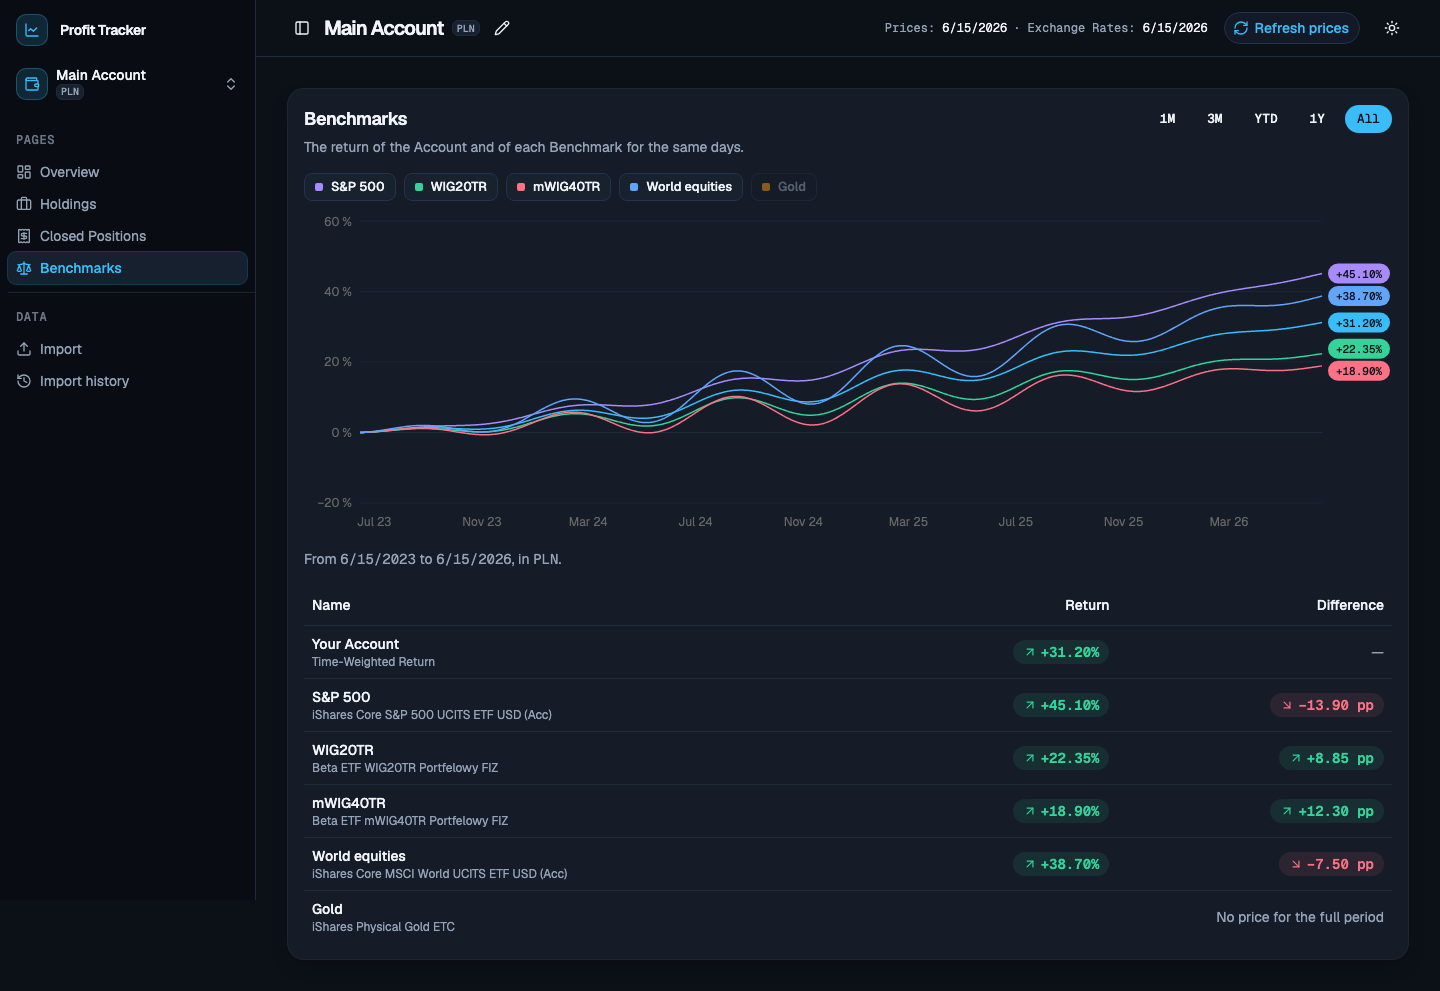
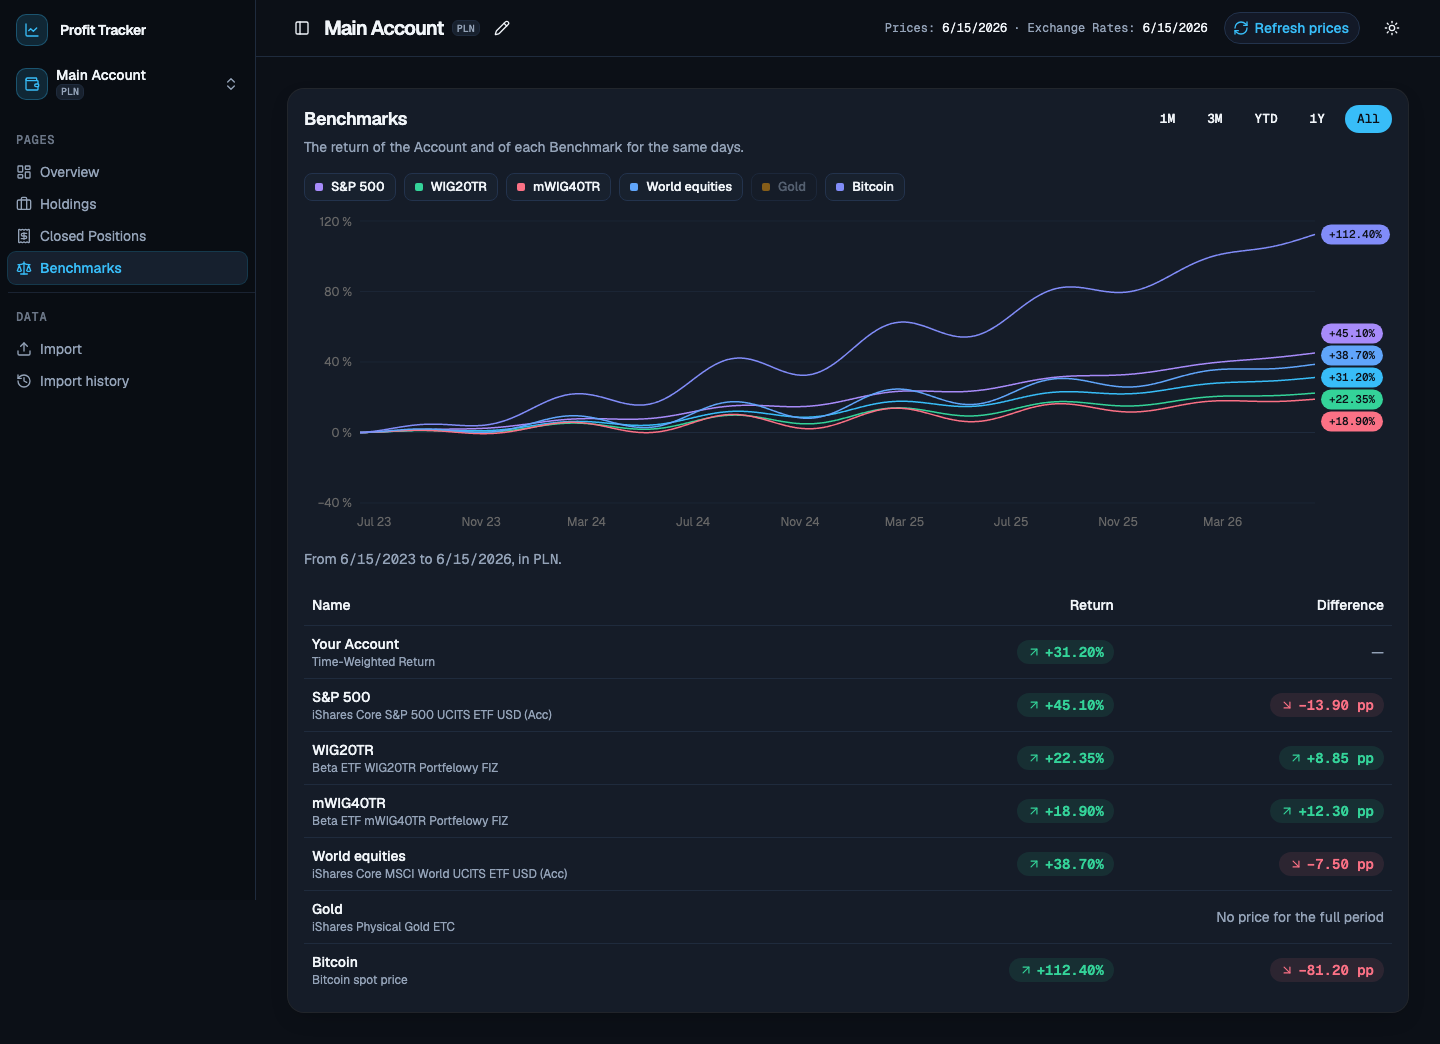
Add the Bitcoin Benchmark to the frontend
Add the Bitcoin Benchmark to the screenshot fixture after Gold.
Give the Bitcoin line the chart-3 colour, so that it does not
share the colour of World equities. Update the comment on fund for
the spot price of a crypto asset (ADR 0008 amendment). Update the
stored images of the Benchmarks pages.

Closes #90

diff --git a/frontend/screenshots/fixtures.ts b/frontend/screenshots/fixtures.ts
@@ -560,7 +560,7 @@ function returnSeries(
   })
 }
 
-// benchmarkRows gives the five Benchmarks for a user return. The last Benchmark has no price for the whole period.
+// benchmarkRows gives the six Benchmarks for a user return. Gold has no price for the whole period.
 function benchmarkRows(
   user: number,
   from: string,
@@ -600,6 +600,7 @@ function benchmarkRows(
       38.7,
     ],
     ["gold", "Gold", "iShares Physical Gold ETC", "IGLN.L", "USD", null],
+    ["bitcoin", "Bitcoin", "Bitcoin spot price", "BTC-USD", "USD", 112.4],
   ]
   return rows.map(([id, name, fund, ticker, quoteCurrency, value], index) => ({
     id,

diff --git a/frontend/src/components/benchmark-chart.tsx b/frontend/src/components/benchmark-chart.tsx
@@ -50,6 +50,7 @@ const benchmarkStyles: Record<string, LineStyle> = {
   mwig40tr: { color: "var(--chart-8)", ink: "var(--chart-8-foreground)" },
   world: { color: "var(--chart-2)", ink: "var(--chart-2-foreground)" },
   gold: { color: "var(--chart-7)", ink: "var(--chart-7-foreground)" },
+  bitcoin: { color: "var(--chart-3)", ink: "var(--chart-3-foreground)" },
 }
 const otherStyle = benchmarkStyles.world
 

diff --git a/frontend/src/lib/api.ts b/frontend/src/lib/api.ts
@@ -811,7 +811,7 @@ export type BenchmarkPoint = { date: string; return: string }
 export type BenchmarkReturn = {
   id: string
   name: string
-  // fund is the name of the ETF or ETC that represents the Benchmark.
+  // fund names what represents the Benchmark: an ETF or ETC, or the spot price of a crypto asset.
   fund: string
   ticker: string
   quoteCurrency: string
